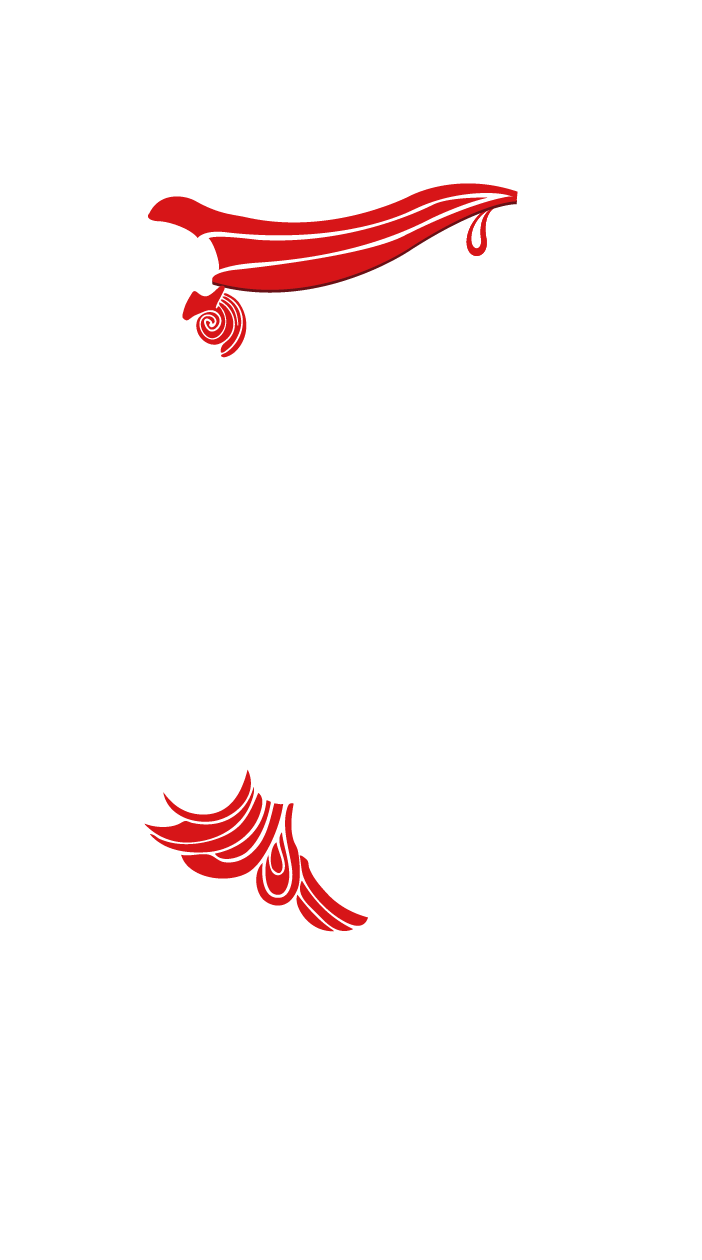
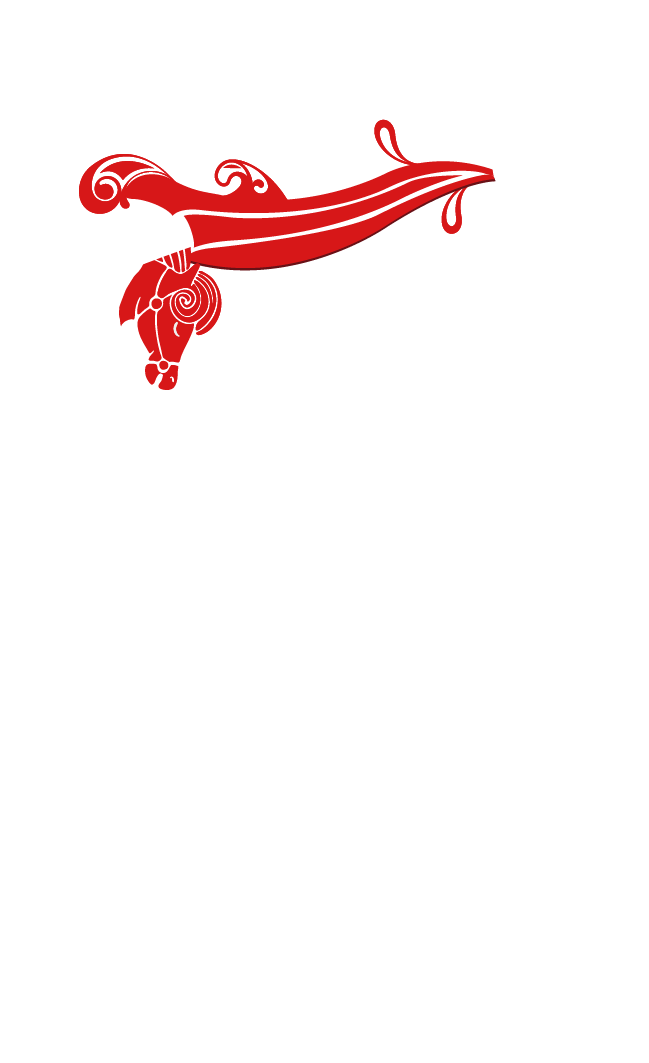
'm'

Changed region(s): [[0.1233, 0.0931, 0.7704, 0.3725], [0.2157, 0.6209, 0.5239, 0.7451]]

diff --git a/weixin.php b/weixin.php
@@ -121,18 +121,19 @@ if ($msgType == 'text') {
             $UserBigPicture = './img/big'.$userInfo['picName'];
 			$userImgBig = new Imagick($UserBigPicture);
 			$geo=$userImgBig->getImageGeometry();
-			$imageBig = new Imagick('newbigbuttom.png');
+			
             if(($geo['height'] - $geo['width']) > 10){
-			   $image_topBig = new Imagick('chang-top.png');
+			   $imageBig = new Imagick('chan-buttom.jpg');
 			   $text_x = 120;
 			   $text_y = 820;
 			   $degree = -9;
 			}else{
-			   $image_topBig = new Imagick('zhen-top.png');
+			   $imageBig = new Imagick('zhen-buttom.jpg');
 			   $text_x = 110;
 			   $text_y = 724;
 			   $degree = -7;
 			}
+			$image_topBig = new Imagick('bigtop.png');
 			$userImgBig->rotateImage(new ImagickPixel('transparent'), -11.00); 
 			$imageBig->compositeImage($userImgBig, Imagick::COMPOSITE_DEFAULT, 180, 190);
 			$imageBig->compositeImage($image_topBig, Imagick::COMPOSITE_DEFAULT, 0, 0);
